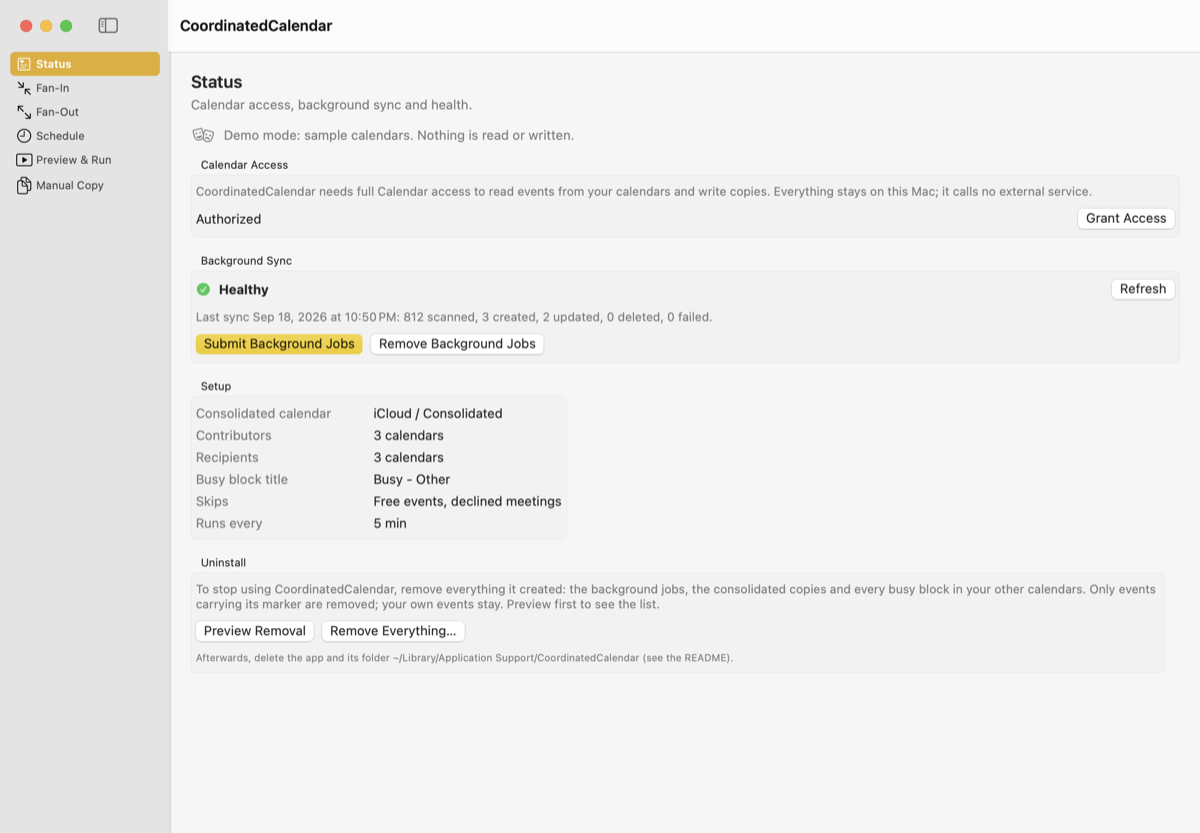
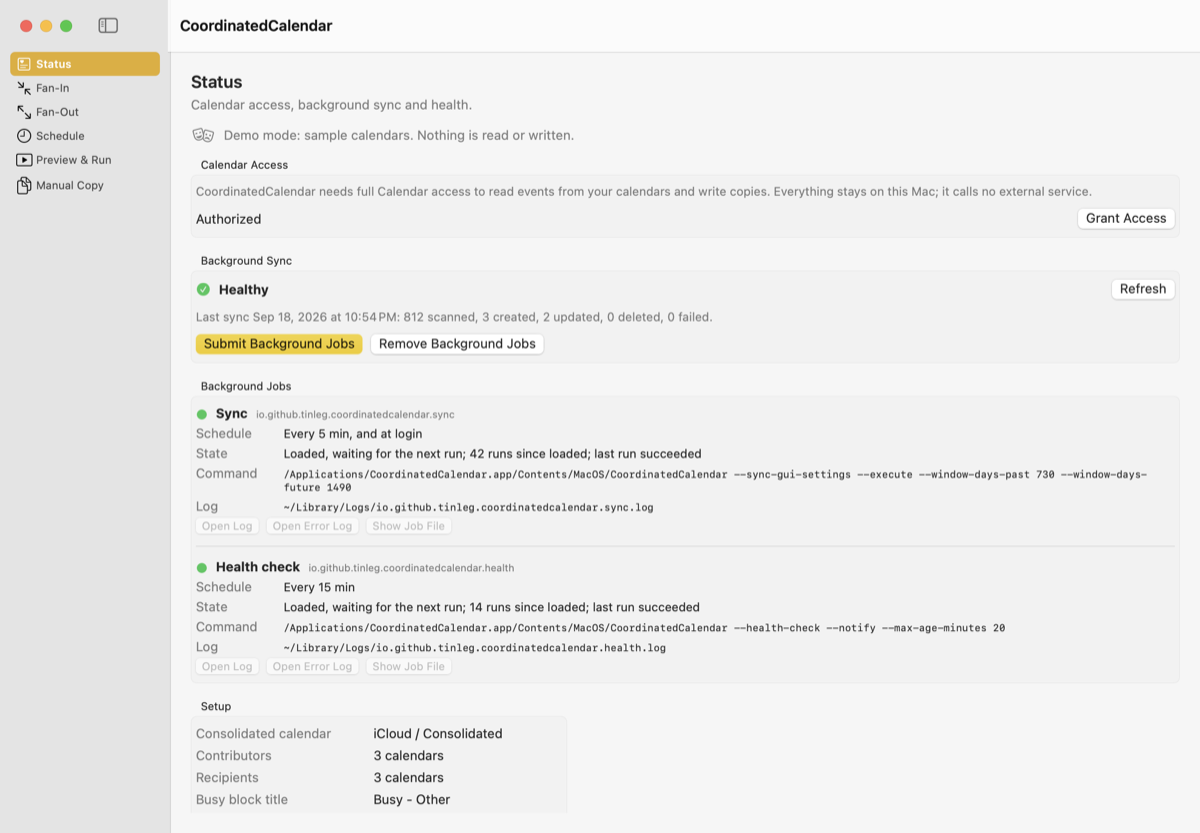
Show background job details on the Status page
Each installed job shows its schedule, command, launchd state, run count,
last exit code and logs, with buttons to open the logs or reveal the job
file. CI skips while the repository is private.

Changed region(s): [[0.1542, 0.437, 0.9558, 0.8115], [0.1542, 0.8427, 0.2775, 0.9676], [0.3083, 0.8739, 0.4317, 0.9676]]

diff --git a/Sources/CoordinatedCalendarApp/ContentView.swift b/Sources/CoordinatedCalendarApp/ContentView.swift
@@ -149,6 +149,7 @@ struct ContentView: View {
                 VStack(alignment: .leading, spacing: 16) {
                     permissionSection
                     backgroundSyncSection
+                    backgroundJobsSection
                     setupSummarySection
                     uninstallSection
                 }
@@ -602,6 +603,91 @@ struct ContentView: View {
             }
             .padding(.vertical, 4)
         }
+    }
+
+    private var backgroundJobsSection: some View {
+        GroupBox("Background Jobs") {
+            VStack(alignment: .leading, spacing: 12) {
+                if viewModel.backgroundJobs.isEmpty {
+                    Text("No background jobs are installed. Submit Background Jobs above to install the sync and health-check jobs.")
+                        .foregroundStyle(.secondary)
+                }
+                ForEach(viewModel.backgroundJobs) { job in
+                    VStack(alignment: .leading, spacing: 4) {
+                        HStack(alignment: .firstTextBaseline) {
+                            Image(systemName: job.isLoaded ? "circle.fill" : "circle")
+                                .foregroundStyle(job.isLoaded ? (job.lastExitCode.map { $0 == "0" } ?? true ? .green : .orange) : .secondary)
+                                .font(.caption)
+                            Text(jobTitle(job))
+                                .font(.headline)
+                            Text(job.label)
+                                .font(.caption)
+                                .foregroundStyle(.secondary)
+                                .textSelection(.enabled)
+                        }
+                        jobDetailRow("Schedule", "Every \(intervalLabel(job.interval))\(job.runsAtLoad ? ", and at login" : "")")
+                        jobDetailRow("State", jobStateText(job))
+                        jobDetailRow("Command", job.arguments.map { $0.contains(" ") ? "\"\($0)\"" : $0 }.joined(separator: " "))
+                        jobDetailRow("Log", job.logPath)
+                        HStack {
+                            Button("Open Log") { openLog(job.logPath) }
+                            Button("Open Error Log") { openLog(job.errorLogPath) }
+                            Button("Show Job File") { revealInFinder(job.plistPath) }
+                        }
+                        .controlSize(.small)
+                        .disabled(viewModel.isDemo)
+                    }
+                    if job.id != viewModel.backgroundJobs.last?.id {
+                        Divider()
+                    }
+                }
+            }
+            .padding(.vertical, 4)
+            .frame(maxWidth: .infinity, alignment: .leading)
+        }
+    }
+
+    private func jobTitle(_ job: SyncAgentInstaller.JobDetails) -> String {
+        if job.label.hasSuffix(".sync") { return "Sync" }
+        if job.label.hasSuffix(".health") { return "Health check" }
+        return job.label.components(separatedBy: ".").last?.capitalized ?? job.label
+    }
+
+    private func jobStateText(_ job: SyncAgentInstaller.JobDetails) -> String {
+        guard let state = job.state else { return "Installed but not loaded. Submit Background Jobs to load it." }
+        var parts = [state == "running" ? "Running now" : "Loaded, waiting for the next run"]
+        if let runs = job.runs { parts.append("\(runs) runs since loaded") }
+        if let code = job.lastExitCode { parts.append(code == "0" ? "last run succeeded" : "last exit code \(code)") }
+        return parts.joined(separator: "; ")
+    }
+
+    private func jobDetailRow(_ label: String, _ value: String) -> some View {
+        HStack(alignment: .firstTextBaseline) {
+            Text(label)
+                .foregroundStyle(.secondary)
+                .frame(width: 80, alignment: .leading)
+            Text(value)
+                .font(label == "Command" || label == "Log" ? .caption.monospaced() : .callout)
+                .textSelection(.enabled)
+                .fixedSize(horizontal: false, vertical: true)
+        }
+    }
+
+    private func intervalLabel(_ seconds: Int) -> String {
+        scheduleOptions.first { $0.seconds == seconds }?.label ?? (seconds % 60 == 0 ? "\(seconds / 60) min" : "\(seconds) s")
+    }
+
+    private func openLog(_ path: String) {
+        let url = URL(fileURLWithPath: (path as NSString).expandingTildeInPath)
+        if FileManager.default.fileExists(atPath: url.path) {
+            NSWorkspace.shared.open(url)
+        } else {
+            viewModel.statusText = "No log yet at \(path)."
+        }
+    }
+
+    private func revealInFinder(_ path: String) {
+        NSWorkspace.shared.activateFileViewerSelecting([URL(fileURLWithPath: (path as NSString).expandingTildeInPath)])
     }
 
     private var uninstallSection: some View {

diff --git a/Sources/CoordinatedCalendarApp/SyncAgentInstaller.swift b/Sources/CoordinatedCalendarApp/SyncAgentInstaller.swift
@@ -70,6 +70,75 @@ enum SyncAgentInstaller {
         return ["--window-days-past", "\(past)", "--window-days-future", "\(future)"]
     }
 
+    /// What an installed LaunchAgent does, read from its plist and from launchd.
+    struct JobDetails: Identifiable, Equatable {
+        let label: String
+        let plistPath: String
+        let interval: Int
+        let runsAtLoad: Bool
+        let arguments: [String]
+        let logPath: String
+        let errorLogPath: String
+        /// launchd's view: nil when the job is installed but not loaded.
+        var state: String?
+        var runs: String?
+        var lastExitCode: String?
+
+        var id: String { label }
+        var isLoaded: Bool { state != nil }
+    }
+
+    /// Every LaunchAgent this app installed, with launchd's current state for each.
+    static func installedJobs() -> [JobDetails] {
+        guard let urls = try? FileManager.default.contentsOfDirectory(at: launchAgentsURL, includingPropertiesForKeys: nil) else {
+            return []
+        }
+        return urls
+            .filter { $0.pathExtension == "plist" }
+            .compactMap { url -> JobDetails? in
+                guard let data = try? Data(contentsOf: url),
+                      let plist = try? PropertyListSerialization.propertyList(from: data, options: [], format: nil) as? [String: Any],
+                      let label = plist["Label"] as? String, label.hasPrefix(labelPrefix)
+                else { return nil }
+                var job = JobDetails(
+                    label: label,
+                    plistPath: url.path,
+                    interval: plist["StartInterval"] as? Int ?? 0,
+                    runsAtLoad: plist["RunAtLoad"] as? Bool ?? false,
+                    arguments: plist["ProgramArguments"] as? [String] ?? [],
+                    logPath: plist["StandardOutPath"] as? String ?? "",
+                    errorLogPath: plist["StandardErrorPath"] as? String ?? ""
+                )
+                let state = launchdState(label: label)
+                job.state = state["state"]
+                job.runs = state["runs"]
+                job.lastExitCode = state["last exit code"]
+                return job
+            }
+            .sorted { $0.label > $1.label }
+    }
+
+    /// Top-level `key = value` lines from `launchctl print` (state, runs, last exit code); empty if not loaded.
+    private static func launchdState(label: String) -> [String: String] {
+        let process = Process()
+        let output = Pipe()
+        process.executableURL = URL(fileURLWithPath: "/bin/launchctl")
+        process.arguments = ["print", "\(service)/\(label)"]
+        process.standardOutput = output
+        process.standardError = FileHandle.nullDevice
+        guard (try? process.run()) != nil else { return [:] }
+        let data = output.fileHandleForReading.readDataToEndOfFile()
+        process.waitUntilExit()
+        guard process.terminationStatus == 0, let text = String(data: data, encoding: .utf8) else { return [:] }
+        var values: [String: String] = [:]
+        for line in text.components(separatedBy: "\n") where line.hasPrefix("\t") && !line.hasPrefix("\t\t") {
+            let parts = line.dropFirst().components(separatedBy: " = ")
+            guard parts.count == 2, ["state", "runs", "last exit code"].contains(parts[0]), values[parts[0]] == nil else { continue }
+            values[parts[0]] = parts[1]
+        }
+        return values
+    }
+
     static var isInstalled: Bool {
         FileManager.default.fileExists(atPath: launchAgentsURL.appendingPathComponent("\(syncLabel).plist").path)
     }

diff --git a/Sources/CoordinatedCalendarApp/BridgeViewModel.swift b/Sources/CoordinatedCalendarApp/BridgeViewModel.swift
@@ -28,6 +28,7 @@ final class BridgeViewModel: ObservableObject {
     @Published var syncInterval = 300
     @Published var lastSync: SyncRunStatus?
     @Published var backgroundJobsInstalled = false
+    @Published var backgroundJobs: [SyncAgentInstaller.JobDetails] = []
     /// Set when the settings folder could not be opened; changes are disabled until the app is relaunched.
     @Published var startupError: String?
     /// `-demoMode YES` shows synthetic calendars for screenshots and never reads or writes calendars or settings.
@@ -336,6 +337,7 @@ final class BridgeViewModel: ObservableObject {
         guard !isDemo else { return }
         lastSync = SyncStatusStore.load()
         backgroundJobsInstalled = SyncAgentInstaller.isInstalled
+        backgroundJobs = SyncAgentInstaller.installedJobs()
     }
 
     func cancel() {
@@ -580,6 +582,12 @@ final class BridgeViewModel: ObservableObject {
         recipientAvailabilities = [key("demo-work", "calendar"): .preserve, key("demo-client", "calendar"): .tentative, key("demo-icloud", "personal"): .preserve]
         permissionStatus = .fullAccess
         backgroundJobsInstalled = true
+        let executable = "/Applications/CoordinatedCalendar.app/Contents/MacOS/CoordinatedCalendar"
+        let logs = "~/Library/Logs/io.github.tinleg.coordinatedcalendar"
+        backgroundJobs = [
+            SyncAgentInstaller.JobDetails(label: "io.github.tinleg.coordinatedcalendar.sync", plistPath: "~/Library/LaunchAgents/io.github.tinleg.coordinatedcalendar.sync.plist", interval: 300, runsAtLoad: true, arguments: [executable, "--sync-gui-settings", "--execute", "--window-days-past", "730", "--window-days-future", "1490"], logPath: logs + ".sync.log", errorLogPath: logs + ".sync.err.log", state: "not running", runs: "42", lastExitCode: "0"),
+            SyncAgentInstaller.JobDetails(label: "io.github.tinleg.coordinatedcalendar.health", plistPath: "~/Library/LaunchAgents/io.github.tinleg.coordinatedcalendar.health.plist", interval: 900, runsAtLoad: false, arguments: [executable, "--health-check", "--notify", "--max-age-minutes", "20"], logPath: logs + ".health.log", errorLogPath: logs + ".health.err.log", state: "not running", runs: "14", lastExitCode: "0")
+        ]
         mode = .consolidatedSync
 
         var summary = SyncResult()

diff --git a/CHANGELOG.md b/CHANGELOG.md
@@ -8,7 +8,7 @@ First public release.
 - **Fan-out:** writes sanitized busy blocks to your other calendars. Blocks carry only a configurable title (default `Busy - Other`), times, free/busy status, the private flag where supported, and a hashed marker. They have no alarms, location, notes or recurrence, and this is enforced on every run. Events marked Free and meetings you declined are skipped by default.
 - Adapts each copy to what its destination supports (for example Tentative on Exchange, Free/Busy on iCloud), keeping the intended status in the marker.
 - Runs on several Macs without duplicating copies, and removes duplicates if two Macs race.
-- One background job (fan-in, then fan-out), plus a health check that notifies you when syncing stops or fails.
+- One background job (fan-in, then fan-out), plus a health check that notifies you when syncing stops or fails. The Status page shows each job's schedule, command, launchd state, last result and logs.
 - Paged interface: Status, Fan-In, Fan-Out, Schedule, Preview & Run and Manual Copy.
 - Uninstall with **Remove Everything**, or `--remove-all-copies`, which removes only what the app created.
 - No API connections of its own: works through the accounts in macOS Calendar.
